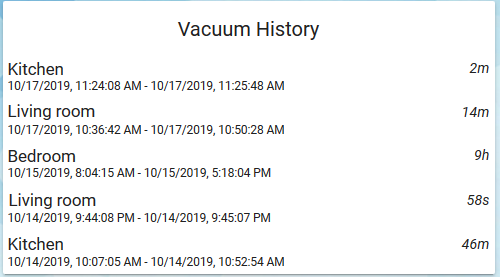
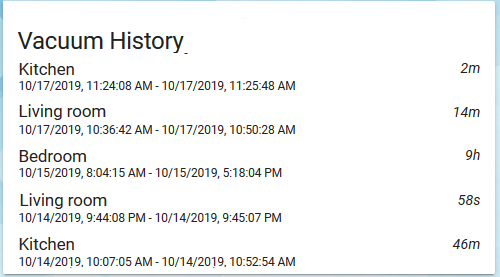
Improve style to be more close to Lovelace default card
Fix #5

diff --git a/logbook-card.js b/logbook-card.js
@@ -3,19 +3,10 @@ class LogbookCard extends Polymer.Element {
     static get template() {
         return Polymer.html`
           <style>
-            .title {
-              font-size: 20px;
-              padding: 16px;
-              text-align: center;
-              white-space: nowrap;
-              text-overflow: ellipsis;
-              overflow: hidden;
-            }
             .content {
               cursor: pointer;
             }
             .item {
-              padding: 5px;
               font-size: 1.2em;
             }
             .duration {
@@ -30,9 +21,11 @@ class LogbookCard extends Polymer.Element {
           </style>
           <ha-card hass="[[_hass]]" config="[[_config]]">
             <template is="dom-if" if="{{title}}">
-              <div class="title" style="[[contentText]]">[[title]]</div>
+              <div class="card-header">
+                <div class="name">[[title]]</div>  
+              </div>
             </template>
-            <div class="content grid" style="[[contentStyle]]">
+            <div class="card-content grid" style="[[contentStyle]]">
               <div>
                 <template is="dom-repeat" items="{{history}}">
                   <div class="item">
